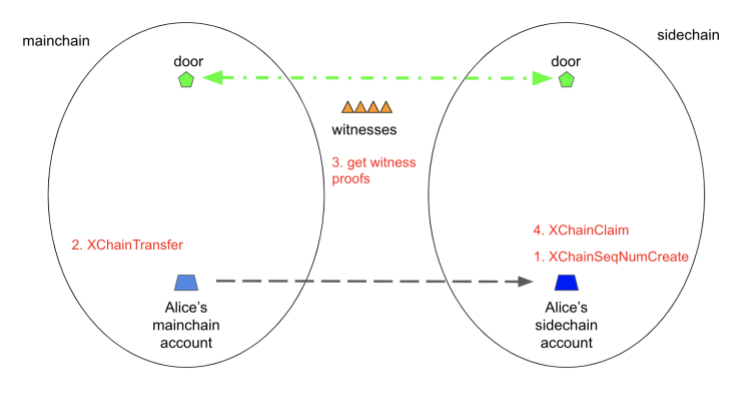
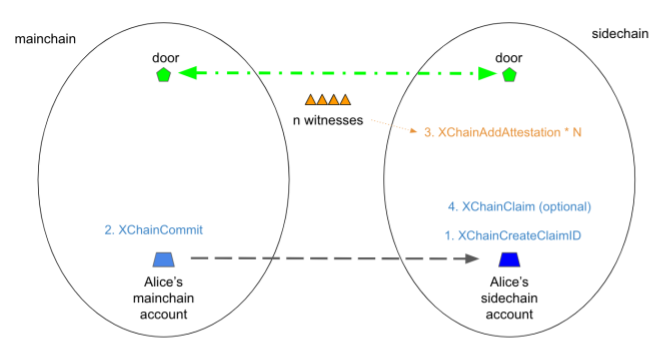
Add info about transactions

diff --git a/content/concepts/consensus-network/locking-and-issuing-chains.md b/content/concepts/consensus-network/locking-and-issuing-chains.md
@@ -26,18 +26,101 @@ Both the locking and issuing chains operate as parllel networks with independent
 
 ## How Do Cross-Chain Transactions Work?
 
+*Pre-requisites*
+
+You must ensure that the following are set up and running before initiating cross-chain transactions. 
+
+* The witness server(s) are up and running.
+* Set up a bridge between the two chains. This inovles initializing the bridge on both chains. Each chain has a _door account_ that controls that end of the bridge on-chain. On one chain, the asset is locked and unlocked (hence the name "locking chain"), and on the other chain, assets are minted and burned, or issues and reclaimed (hence the name "issuing chain").
+* When using the XRP Ledger mainchain as one of the chains, ensure that  the `Sidechains` amendment is enabled in the rippled.cfg configuration file. 
+*  
+
+At a high-level, cross-chain transactions involve the following steps: 
+
+1. Claim a cross-chain claim ID on the issuing chain.
+2. Submit a cross-chain transfer transaction on the locking chain, attaching the claimed cross-chain claim ID and include a reward for the witness servers. This locks or burns the asset on the issuing chain.
+3. Obtain the attestations from the witness servers that the transaction occurred on the issuing chain.
+4. Submit a transaction claim for the transferred value on the issuing chain, attaching the attestation as proof that the value was indeed transferred.
+5. The rewards are then distributed to the witness servers' accounts on the issuing chain.
+
 Consider an example where Alice wants to send XRP from her account on the XRP Ledger mainchain (locking chain) to her account sAlice on a sidechain (issuing chain).
 
-Before Alice can initiate a transaction, a bridge that transfers XRP between the XRP Ledger mainchain and the sidechain must be set up with XChainDoorCreate and witness servers must be running.
+* A bridge that transfers XRP between the XRP Ledger mainchain and the sidechain has been set up with XChainCreateBridge.
+* Witness servers are up and running.
+* Alice has also already run a XChainCreateAccountCommit transaction at some point, so she has an account on the sidechain.
 
 <!-- Add image of just the bridge created-->
 
 ![Cross-chain Transactions](img/xrpl-bridging-solution.png "Cross-chain transactions")
 
-sAlice first checks out a sequence number with XChainSeqNumCreate on the sidechain, specifying the above bridge. She retrieves the sequence number from the transaction metadata or the TBD RPC call.
+1. sAlice first checks out a claim ID with XChainCreateClaimID on the sidechain, specifying the above bridge. She retrieves the claim ID from the transaction metadata or the TBD RPC call.
 
-Alice then takes the cross-chain sequence number from sAlice’s XChainSeqNumCreate transaction and submits a XChainTransfer transaction on the mainchain with that sequence number, locking up a specified amount of XRP.
+2. Alice then takes the cross-chain claim ID from sAlice’s XChainCreateClaimID transaction and submits a XChainCommit transaction on the mainchain with that claim ID, locking up a specified amount of XRP. She specifies sAlice’s account in the OtherChainDestination field.
 
-Alice then submits a witness request to the witness servers for the attestations of her XChainTransfer transaction on the mainchain.
+3. The witnesses then take note of the XChainCommit transaction and submit XChainAddAttestation transactions on the sidechain, attesting to the fact that the XChainCommit transaction did in fact occur on the mainchain.
 
-sAlice takes the signatures from the witness servers and submits it as a part of a XChainClaim transaction on the sidechain, specifying her account as the destination. Assuming that she has enough attestations to reach quorum and the attestations are correct, this then releases the XRP on the sidechain to sAlice’s account.
+4. When there are enough XChainAddAttestation signatures to reach quorum, the XRP is automatically released on the sidechain to sAlice’s account.
+
+5. If the XRP is not automatically released, for whatever reason (such as Alice forgetting to specify sAlice’s account in the OtherChainDestination field), then sAlice submits a XChainClaim transaction on the sidechain, specifying her account as the destination. This then releases the XRP on the sidechain to sAlice’s account.
+
+## Terminology
+
+* Bridge: A method of moving assets/value from one blockchain to another.
+
+* Witness: Independent servers that are aware of the locking and issuing chains. See [witness servers](witness-servers.md) for more information.
+
+* Cross-chain transfer: A transfer of assets from one chain to another.
+
+* Source chain: The chain that a cross-chain transfer begins from. The transfer is from the source chain and to the destination chain.
+
+* Destination chain: The chain that a cross-chain transfer ends at. The transfer is from the source chain and to the destination chain.
+
+* Locking chain: The chain on which the bridge locks and unlocks assets.
+
+* Issuing chain: The chain on which the bridge mints and burns assets.
+
+* Door account: A special type of account that is used to move assets from one chain to another. The door account on a locking chain is used to put assets into trust, and the door account on an issuing chain used to issue wrapped assets. 
+
+
+## Transactions
+
+### Bridge Control: XChainCreateBridge
+
+This transaction defines a new cross-chain bridge entrance on one of the chains that the bridge connects. It tells rippled what the tokens being exchanged are. To fully set up a bridge, this transaction must be executed on both chains, alongside setting up the witness servers.
+
+The complete production-grade setup would also include a SignerListSet transaction on the two door accounts for the witnesses’ signing keys, as well as disabling the door accounts’ master key. This would ensure that the funds are truly in control of the witness servers.
+
+### Bridge Control: XChainModifyBridge
+
+This transaction modifies a Bridge ledger object on one of the chains that the bridge connects. You can only change the SignaturesReward or MinAccountCreateAmount values, because changing the bridge itself (either door account or either currency) would essentially render all cross-chain funds useless - you’d be better off creating another bridge instead. This transaction must be sent by the door account, and correctly signed using whatever signer list set it has.
+
+### Cross-Chain Transfer: XChainCreateClaimID
+
+This transaction checks out a cross-chain claim ID that is used for a cross-chain transfer. It is submitted on the destination chain, not the source chain. This is the first step of a cross-chain transfer of value. 
+
+A cross-chain claim ID essentially represents one cross-chain transfer of value. 
+
+### Cross-Chain Transfer: XChainCommit
+
+This transaction initiates a cross-chain transfer of value. This is done on the source chain, and locks/burns the value (“commits” the value), so that the equivalent amount can be minted/unlocked on the destination chain. Essentially, it tells the witness servers that the value was locked/burned. This value is tied to a specific cross-chain claim ID (which is included in the transaction).
+
+The account that owns the cross-chain claim ID on the destination chain is the account that controls the funds on the other end of the bridge. The funds go to the destination account specified in the XChainCommit transaction, if specified. If the destination account is not specified, then the claim ID owner must submit an XChainClaim transaction to determine where the funds will go on the destination chain.
+
+### Cross-Chain Transfer: XChainAddAttestation
+
+This transaction is submitted on the destination chain, by the witness server or anyone with access to the signatures from the witness server. It is a proof that an event (essentially just a locking/burning of funds) happened on the source chain.
+
+When enough witnesses have submitted their proofs on the destination chain that an event has occurred, the funds will be released to the destination account in the XChainCommit transaction, if specified. Otherwise, the claim ID owner must submit an XChainClaim transaction to determine where the funds will go on the destination chain.
+
+### Cross-Chain Transfer: XChainClaim
+
+This transaction completes a cross-chain transfer of value. It allows a user to claim the value on the destination chain - the equivalent of the value locked on the source chain. A user can only claim the value if they own the cross-chain claim ID associated with the value locked on the source chain (the Account field). The user can send the funds to anyone (the Destination field). This transaction is only needed if an OtherChainDestination is not specified in the XChainCommit transaction, or if something goes wrong with the automatic transfer of funds.
+
+### Other: XChainCreateAccountCommit
+
+This transaction creates an account on the sidechain. In order to start a cross-chain transfer, you need an account on the destination chain, which is a bit of a paradox situation - so to avoid that, this is a special transaction that can create an account on the destination chain for you.
+
+
+## Frequently Asked Questions
+
+

diff --git a/content/concepts/xrpl-servers/witness-server.md b/content/concepts/xrpl-servers/witness-server.md
@@ -10,6 +10,7 @@ The _witness server_ is a light-weight server that is aware the locking and issu
 The witness server is an independent server that has similar responsibilities as that of a validator server on the XRP Ledger's peer-to-peer network and helps avoid double-spend and collusion. 
 
 The witness server serves as a neutral witness for transactions between a locking chain and an issuing chain. 
+It listens to the door accounts on both sides of the bridge and signs attestations for cross-chain transfer transactions, essentially affirming that a transaction on the source account happened, so the value can be claimed on the destination account. They are essentially acting as an oracle, to “prove” that the value was locked/burned on the source account, which allows the recipient to then claim (via minting/ unlocking) the equivalent funds on the destination account.
 
 The bridge between the locking chain and the issuing chain includes the following information in its configuration: 
 
